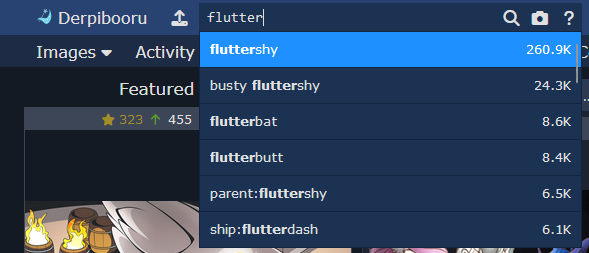
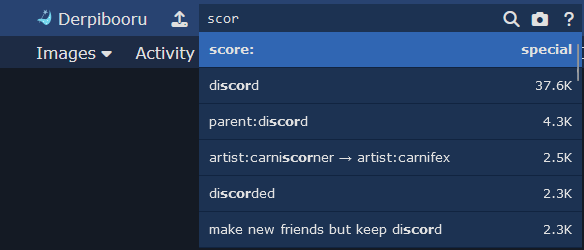
update readme and screenshots

diff --git a/README.md b/README.md
@@ -10,6 +10,7 @@ Altertnative tag autocompletion for derpibooru.org, with infinite scroll, using 
 
 ## Settings
 - You can change the match mode from any match in the search to just matching the start of the tags
+- You can disable the searching of special tags, such as score:, created_at:, etc.
 - If you enable the local autocomplete you need to make sure to provide a valid tags file
 - The tags file is a csv of format `{tag name},{tag count},"{tag aliases separated by commas inside quotes}"`
 
@@ -25,6 +26,7 @@ Altertnative tag autocompletion for derpibooru.org, with infinite scroll, using 
 
 ## Extension Images
 ### Desktop
-![Derpibooru Tag Autocomplete a desktop](https://github.com/usyless/Derpibooru-Tag-Autocomplete/blob/main/assets/desktop.png?raw=true)
+![Derpibooru Tag Autocomplete desktop](https://github.com/usyless/Derpibooru-Tag-Autocomplete/blob/main/assets/desktop.png?raw=true)
+![Derpibooru Tag Autocomplete desktop with red theme](https://github.com/usyless/Derpibooru-Tag-Autocomplete/blob/main/assets/desktop_red.png?raw=true)
 ### Mobile
 ![Derpibooru Tag Autocomplete mobile](https://github.com/usyless/Derpibooru-Tag-Autocomplete/blob/main/assets/mobile.png?raw=true)
